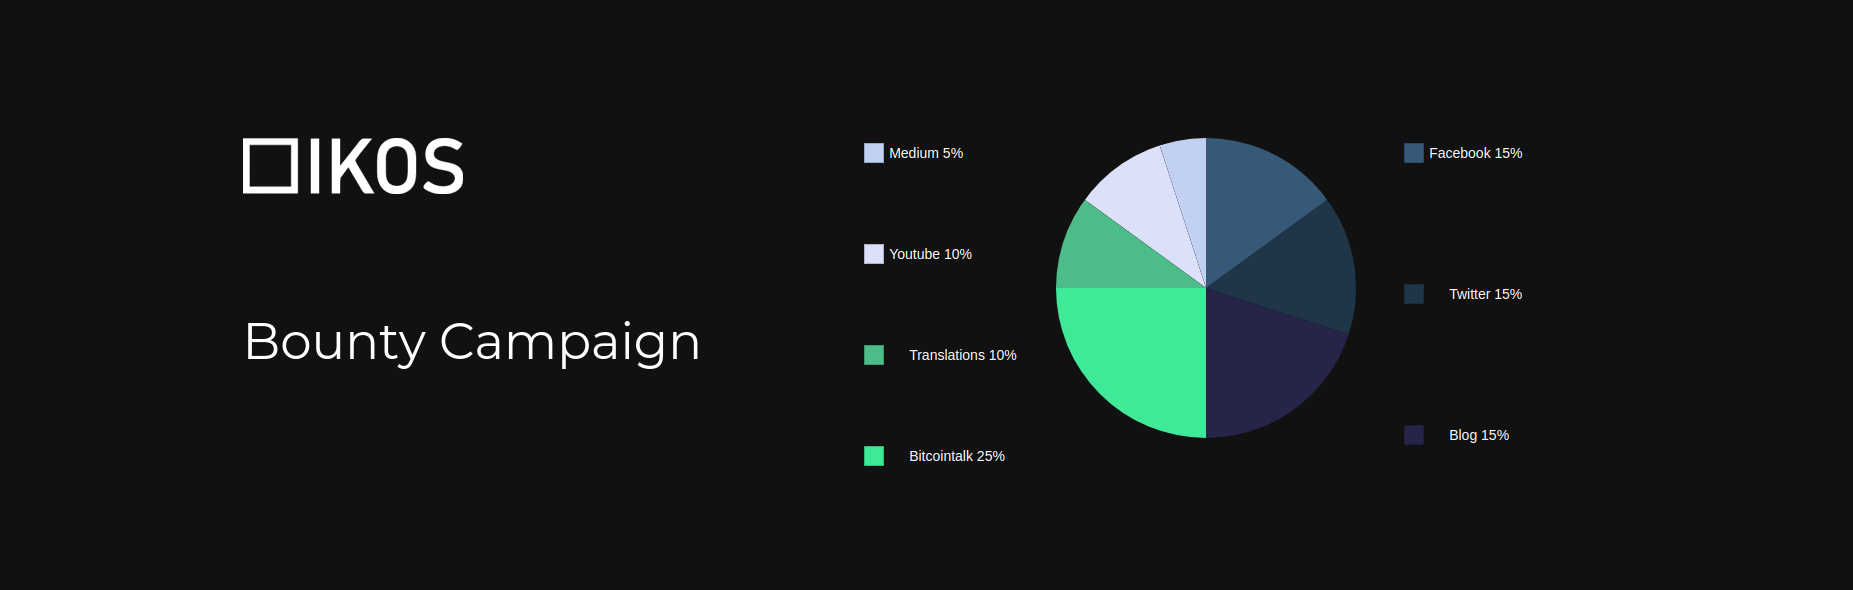
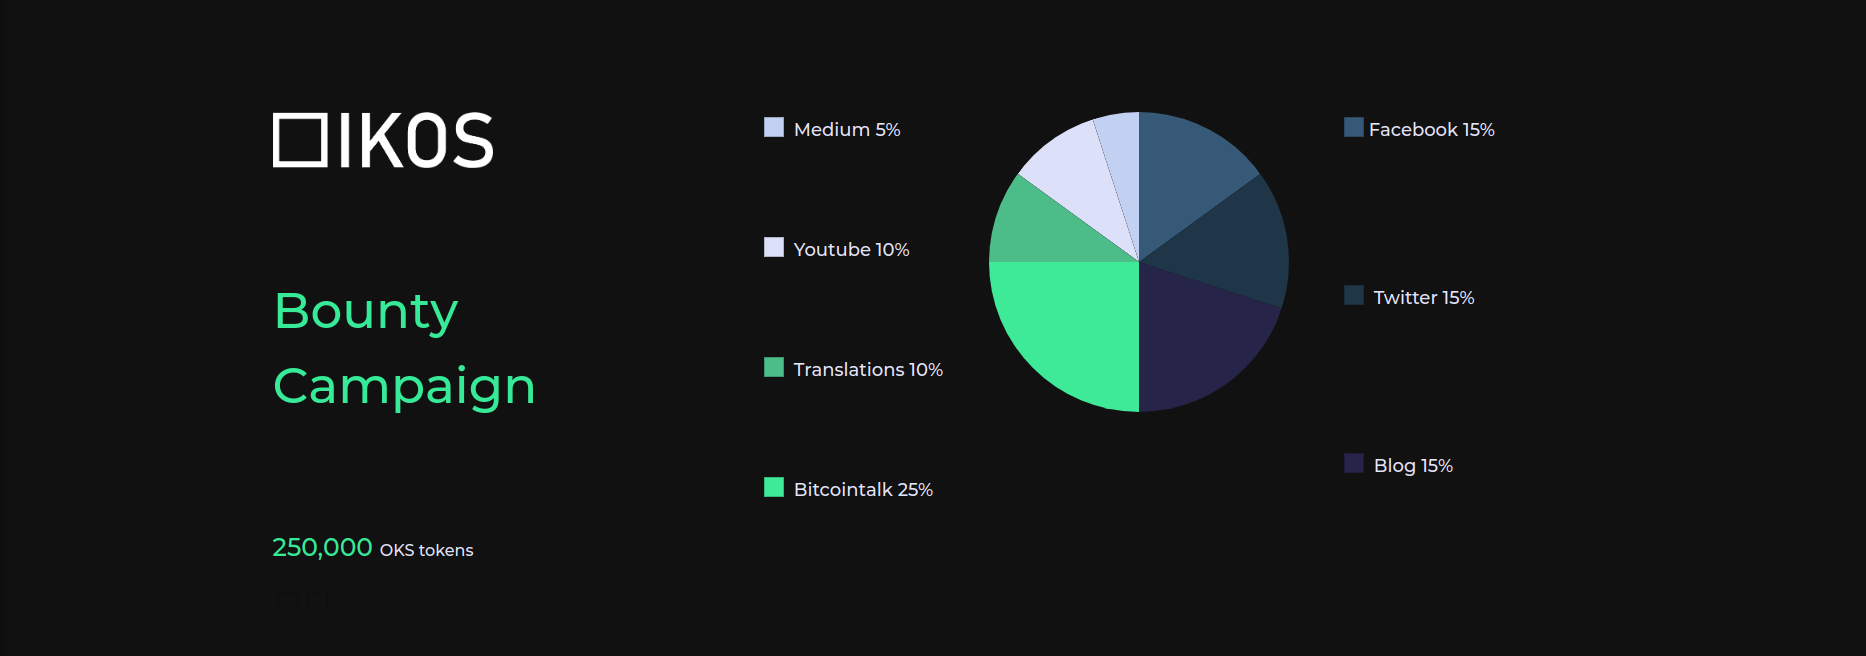
images

diff --git a/token-distribution.html b/token-distribution.html
@@ -108,7 +108,16 @@
         }
         .medium {
           background: #c2d0f3;
+        }
+        p {
+          font-size:18px;
+          font-weight: bold;
+          font-family: Montserrat;
+          color:#e4e4fa
         }        
+        label {
+          color:#e4e4fa
+        }
       </style>
 
     </head>
@@ -116,22 +125,26 @@
  
   <div class="main-container">
     <div class="row">
-      <div class="col-sm-5" style="border:0px white solid;">
+
+      <div class="col-sm-4" style="border:0px white solid;">
         <img src="images/oikos-logo-dark.svg" width=220px "></img>
-        <p style="color:white; font-family:Montserrat;font-size:50px;margin-top:25%">Bounty Campaign</p>
+        <p style="color:#e4e4fa; font-family:Montserrat;font-size:50px;margin-top:25%;color:#2deb96">Bounty Campaign</p>
+        <p style="color:#e4e4fa; font-family:Montserrat;font-size:25px;margin-top:25%;color:#2deb96">250,000 <label>OKS tokens</label></p>
       </div>
-      <div iclass="col-sm-3" style="margin-left:50px;border:px white solid; width:190px">
-        <div class="foo medium"></div>
+
+      <div iclass="col-sm-3" style="margin-left:50px;border:0px white solid; width:230px">
+        <div class="foo medium" style="margin-right:10px"></div>
         <p style="margin-top:5px">Medium  5%</p>        
         <br /><br /><br />
-        <div class="foo youtube"></div>
+        <div class="foo youtube" style="margin-right:10px"></div>
         <p style="margin-top:5px">Youtube  10%</p>
         <br /><br /><br />
-        <div class="foo translations" style="margin-right:25px"></div>
-        <p style="margin-top:5px"> Translations 10%</p>
+        <div class="foo translations" style="margin-right:10px"></div>
+        <p style="margin-top:5px">Translations 10%</p>
         <br /><br /><br />
     
-        <div class="foo bitcointalk" style="margin-right:25px"></div><p style="margin-top:5px"> Bitcointalk 25%</p>
+        <div class="foo bitcointalk" style="margin-right:10px"></div>
+        <p style="margin-top:5px">Bitcointalk 25%</p>
     
       </div>
     <div iclass="col-sm-3">
@@ -150,16 +163,16 @@
 
 
   </div>
-  <div iclass="col-sm-3" style="margin-left:50px;border:0px white solid; width:150px">
+  <div iclass="col-sm-4" style="margin-left:50px;border:0px white solid; width:230px">
     
     <div class="foo fb"></div>
     <p style="margin-top:5px">Facebook  15%</p>
     <br /><br /><br /><br /><br />
-    <div class="foo twitter" style="margin-right:25px"></div>
+    <div class="foo twitter" style="margin-right:10px"></div>
     <p style="margin-top:5px"> Twitter 15%</p>
     <br /><br /><br /><br /><br />
 
-    <div class="foo blog" style="margin-right:25px"></div>
+    <div class="foo blog" style="margin-right:10px"></div>
     <p style="margin-top:5px"> Blog 15%</p>
 
   </div>
